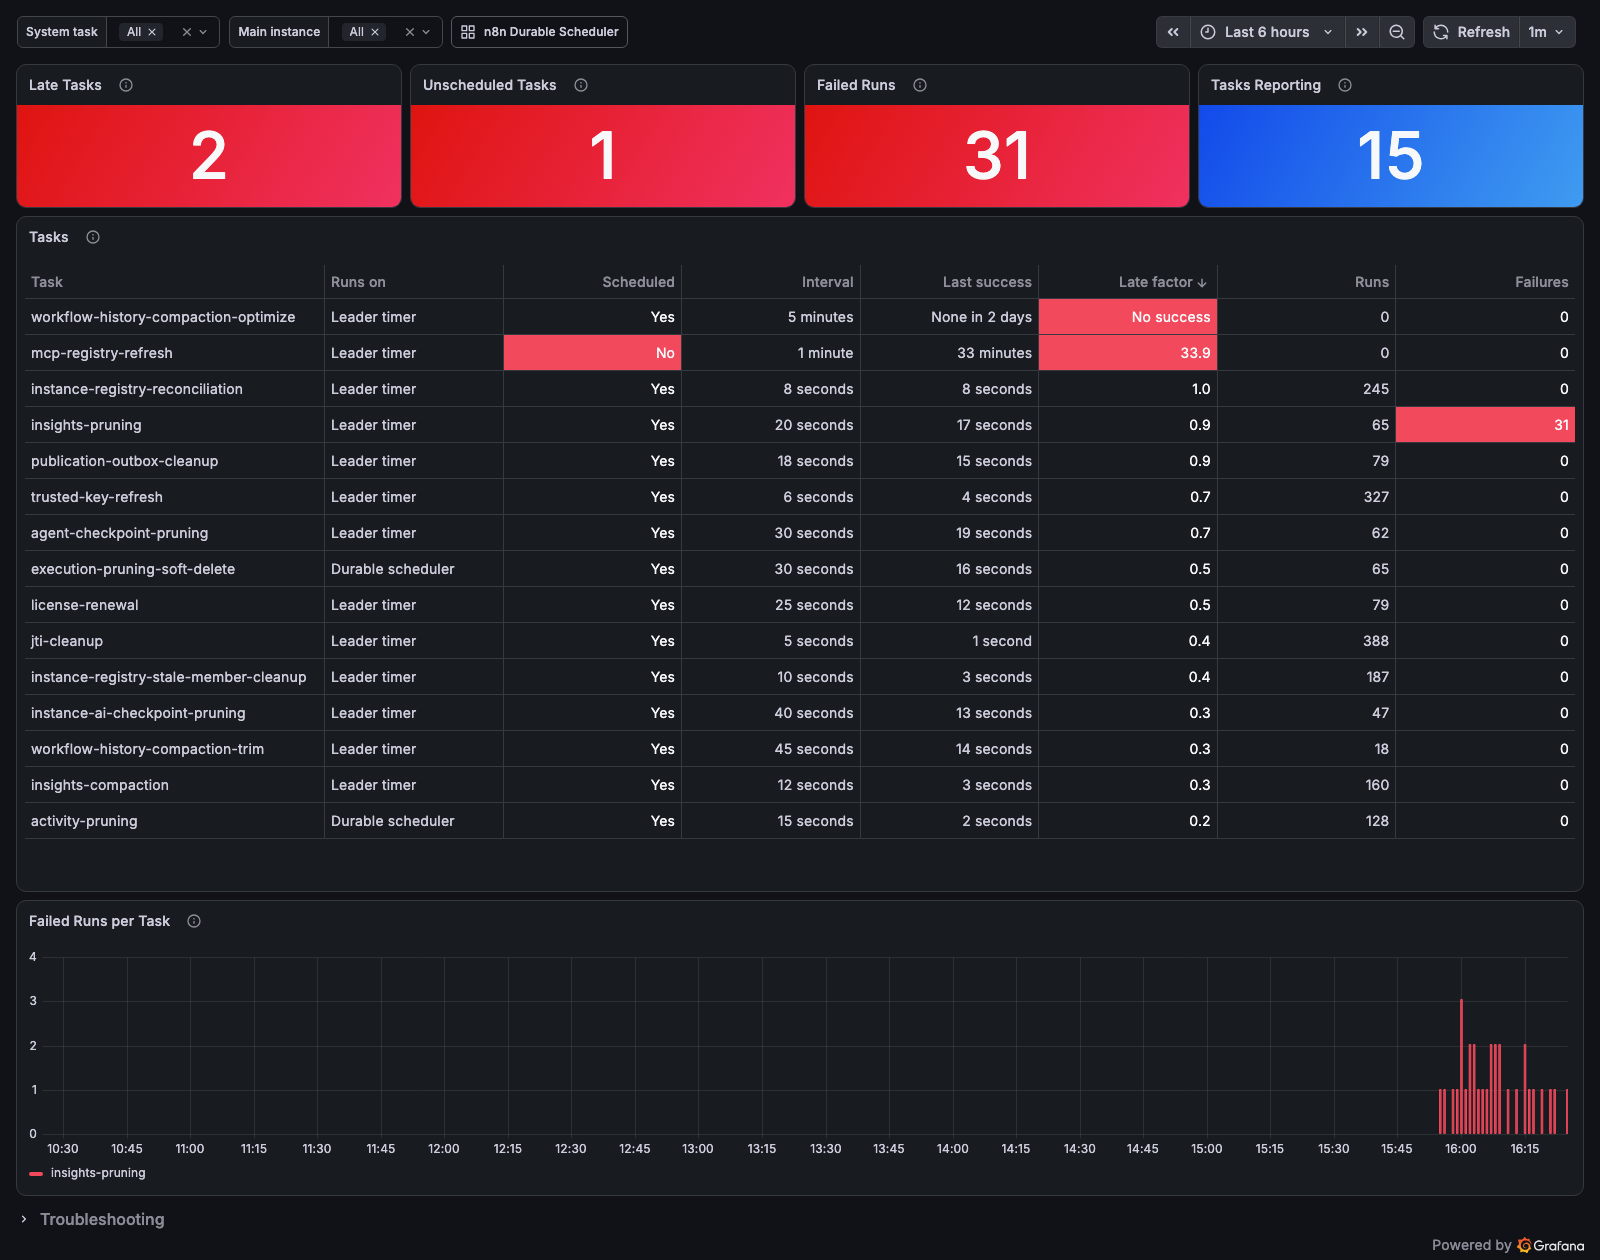
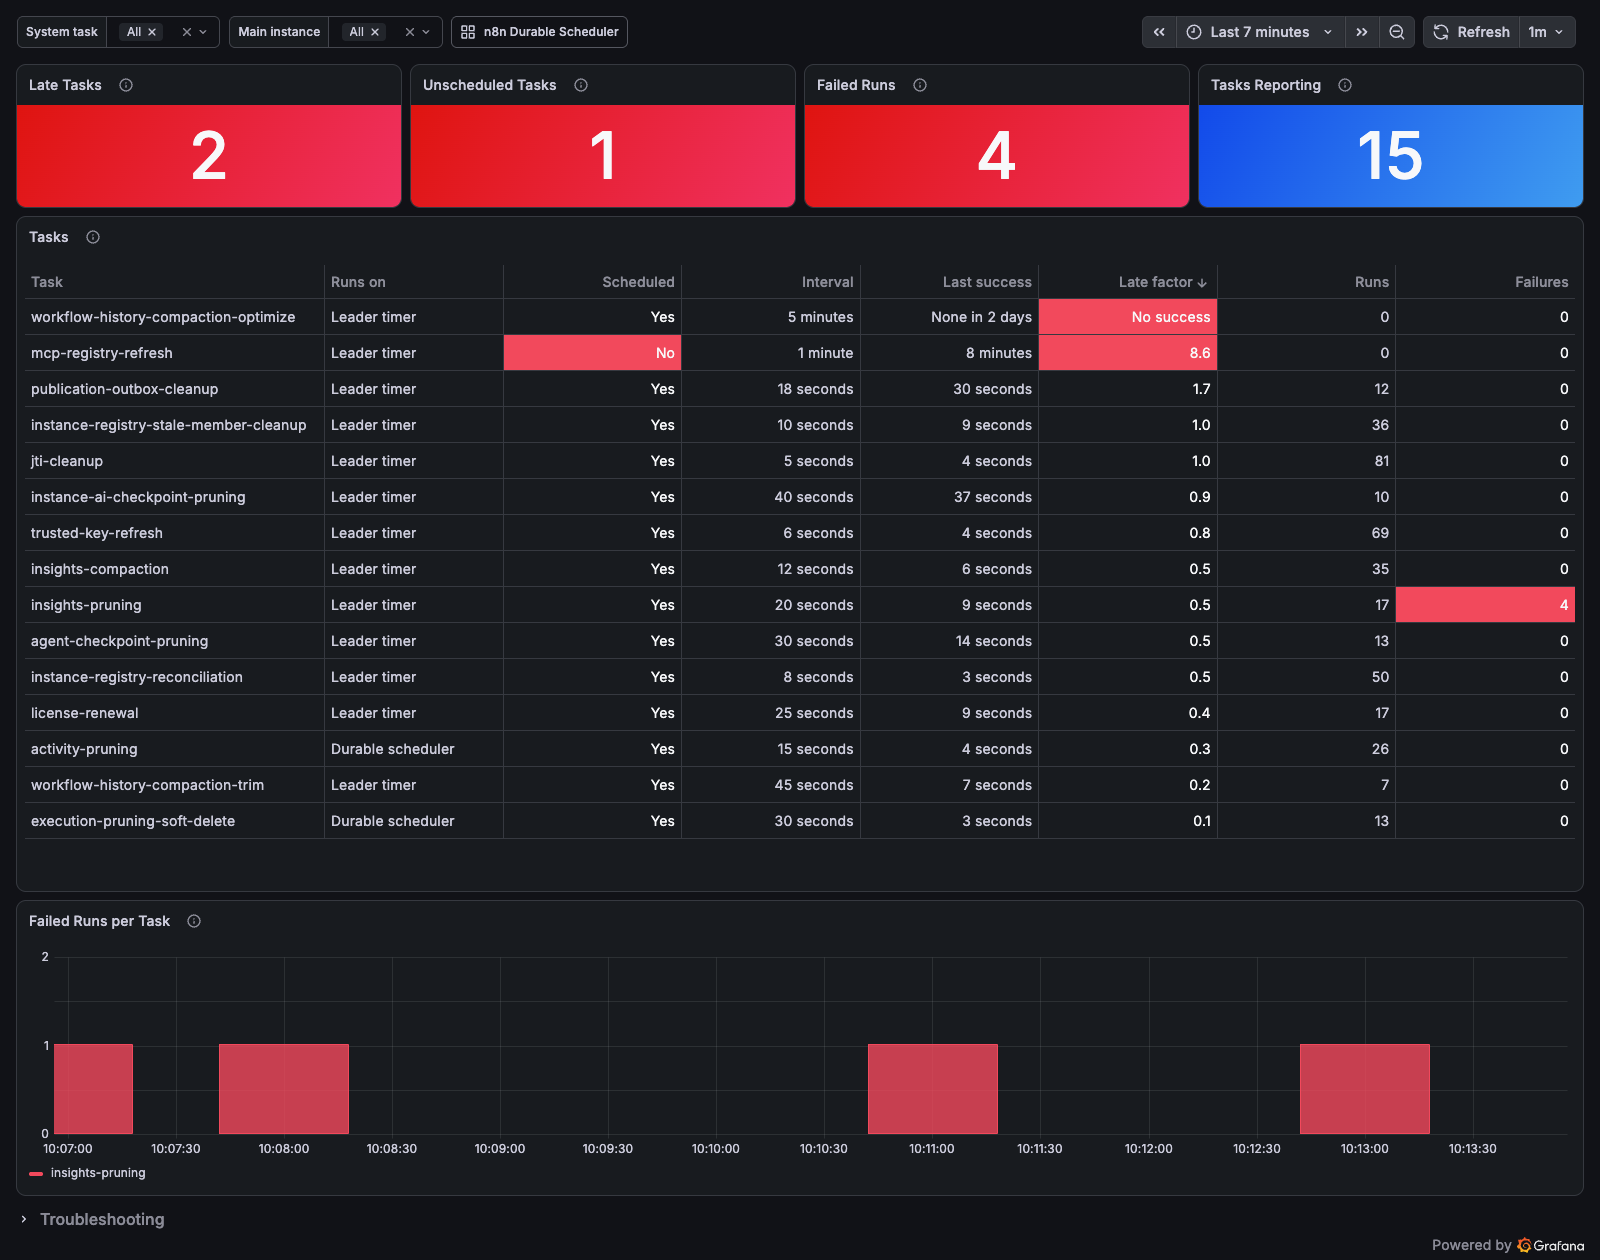
fix: Count failed, skipped and retried runs over a rate interval window

diff --git a/dashboards/grafana/n8n-system-tasks/README.md b/dashboards/grafana/n8n-system-tasks/README.md
@@ -36,6 +36,10 @@ To check, open `http://your-n8n-host.com/metrics` and look for
 This dashboard links to the [n8n Durable Scheduler](../n8n-scheduler/) dashboard
 from its header, and that one links back here.
 
+Set the Prometheus datasource's **Scrape interval** in Grafana to match the
+interval Prometheus uses to scrape n8n. The rate charts use this setting to choose
+a window with enough samples.
+
 ## How to read it
 
 1. Look at the four tiles. **Late Tasks**, **Unscheduled Tasks** and **Failed Runs** are green at 0. Anything else is red.
@@ -55,6 +59,12 @@ from its header, and that one links back here.
 | Troubleshooting (collapsed) | Run duration p95, runs in progress, skipped runs, retries, and time to next run | See the tooltip of each panel |
 
 Each panel repeats its **Bad when** note in its tooltip (the ⓘ icon).
+
+**Failed Runs per Task**, **Skipped Runs** and **Retries** count events over a
+trailing `$__rate_interval` window at each point. The windows overlap, so no
+event falls between two points, and one event can show on several neighboring
+points. Use the **Failed Runs** tile and **Tasks** table for totals over the
+selected time range.
 
 ## How "late" is measured
 
